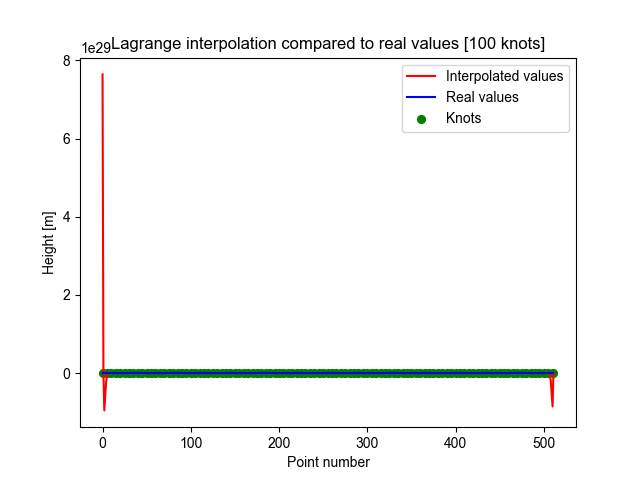
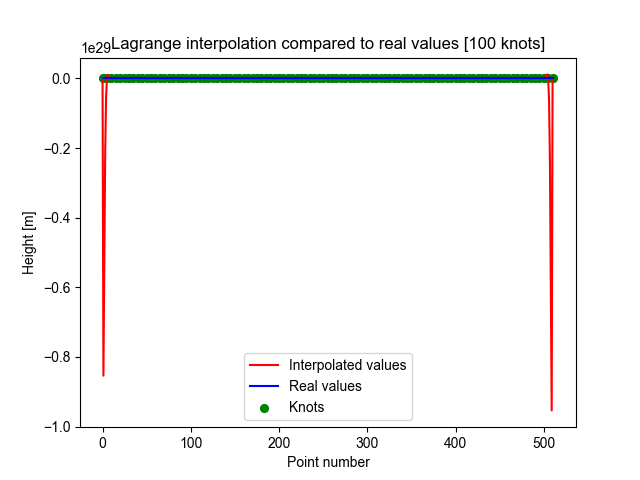
Fix lagrange

diff --git a/methods/lagrange.py b/methods/lagrange.py
@@ -2,7 +2,7 @@ def lagrange(original_data, knots_number):
     step = int(round(len(original_data) / knots_number * 2) / 2)
     data = original_data[::step]
     values = []
-    for i, _ in reversed(list(enumerate(original_data))):
+    for i in range(int(data[len(data) - 1][0] + 1)):
         value = 0
         for j, _ in enumerate(data):
             tmp = data[j][1]
